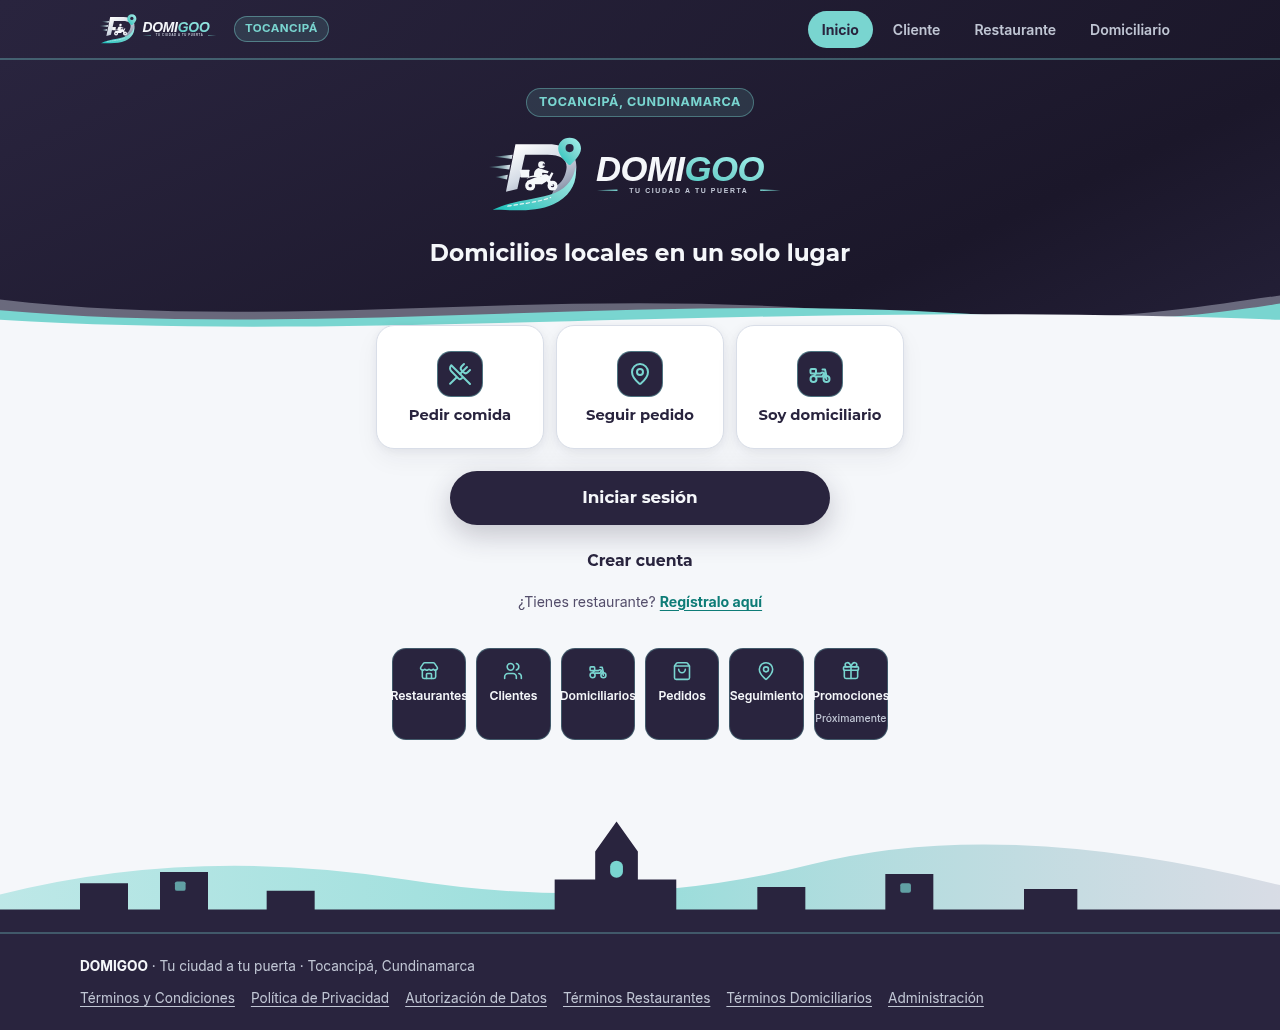
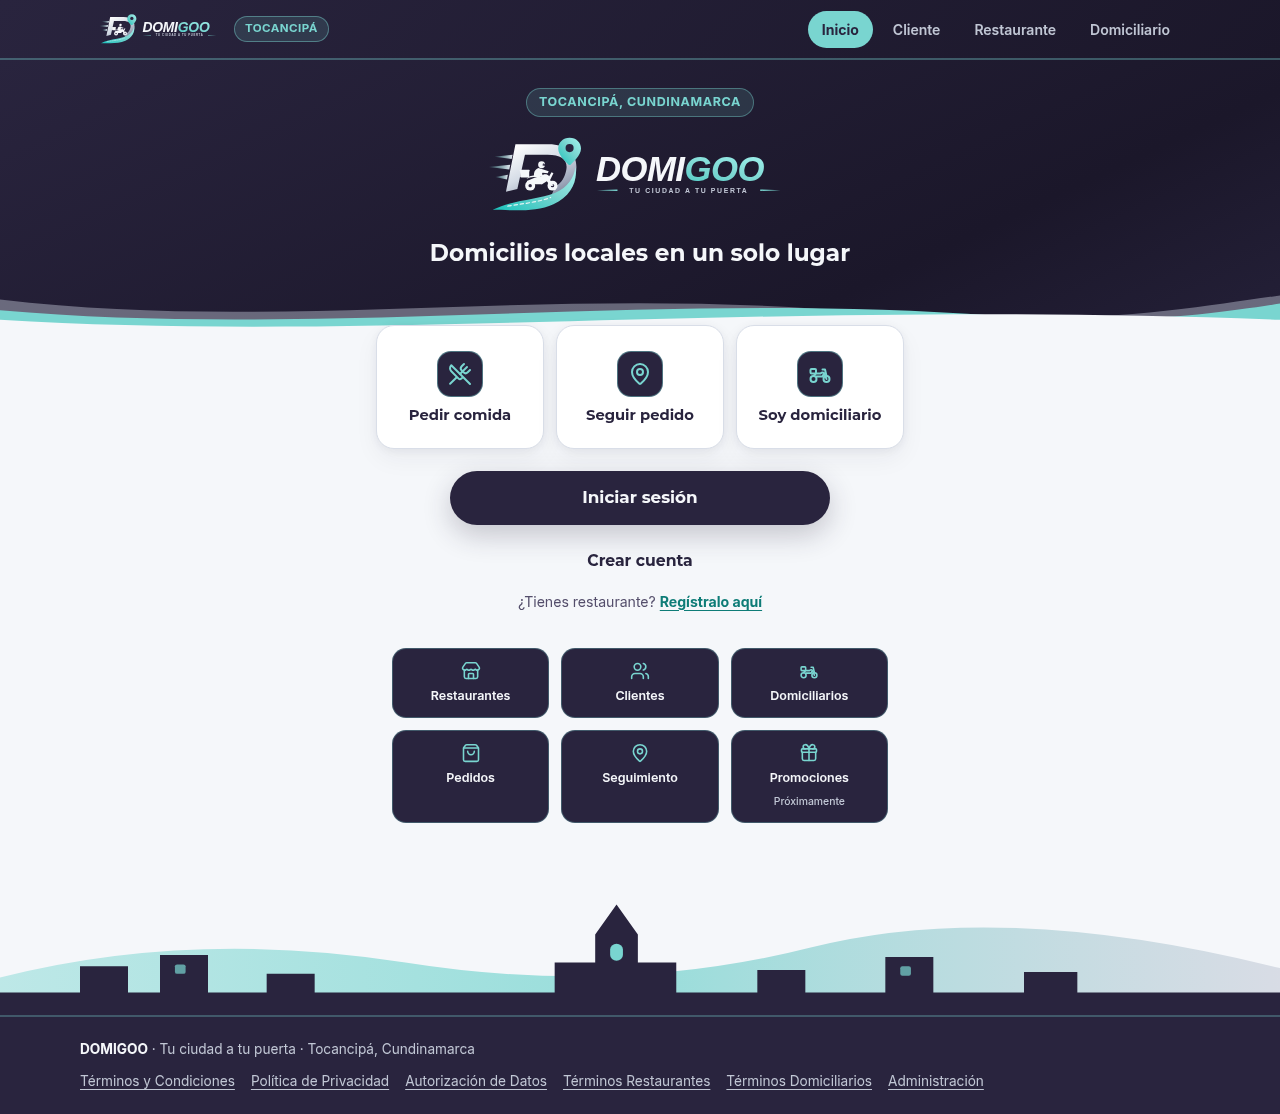
fix(web): ampliar fichas del ecosistema en escritorio a grilla de 3 columnas

Changed region(s): [[0.0, 0.0, 1.0, 0.7456], [0.0, 0.8078, 1.0, 0.9942]]

diff --git a/apps/web/src/styles/domigoo.css b/apps/web/src/styles/domigoo.css
@@ -382,7 +382,8 @@ a {
 
 @media (min-width: 640px) {
   .dg-ecosystem-grid {
-    grid-template-columns: repeat(6, minmax(0, 1fr));
+    grid-template-columns: repeat(3, minmax(120px, 1fr));
+    gap: 12px;
   }
 }
 
@@ -390,14 +391,14 @@ a {
   background: #29243e;
   border: 1px solid rgba(121, 213, 208, 0.3);
   border-radius: 14px;
-  padding: 12px 8px;
+  padding: 12px 10px;
   display: flex;
   flex-direction: column;
   align-items: center;
   gap: 6px;
   color: #f5f7fa;
   text-align: center;
-  font-size: 0.76rem;
+  font-size: 0.78rem;
   font-weight: 600;
   text-decoration: none;
 }
